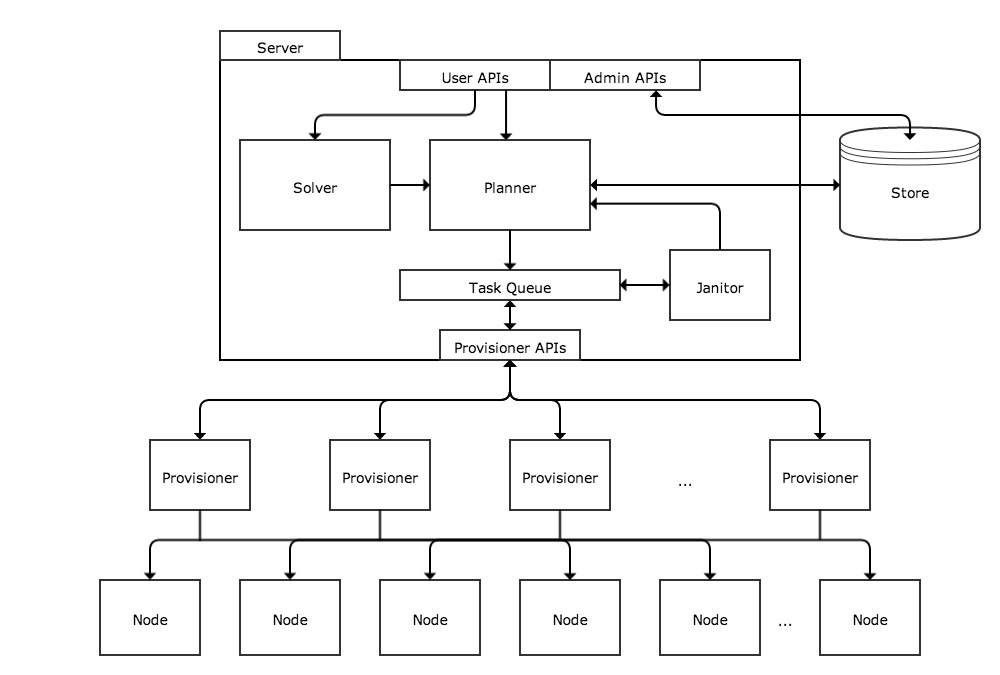
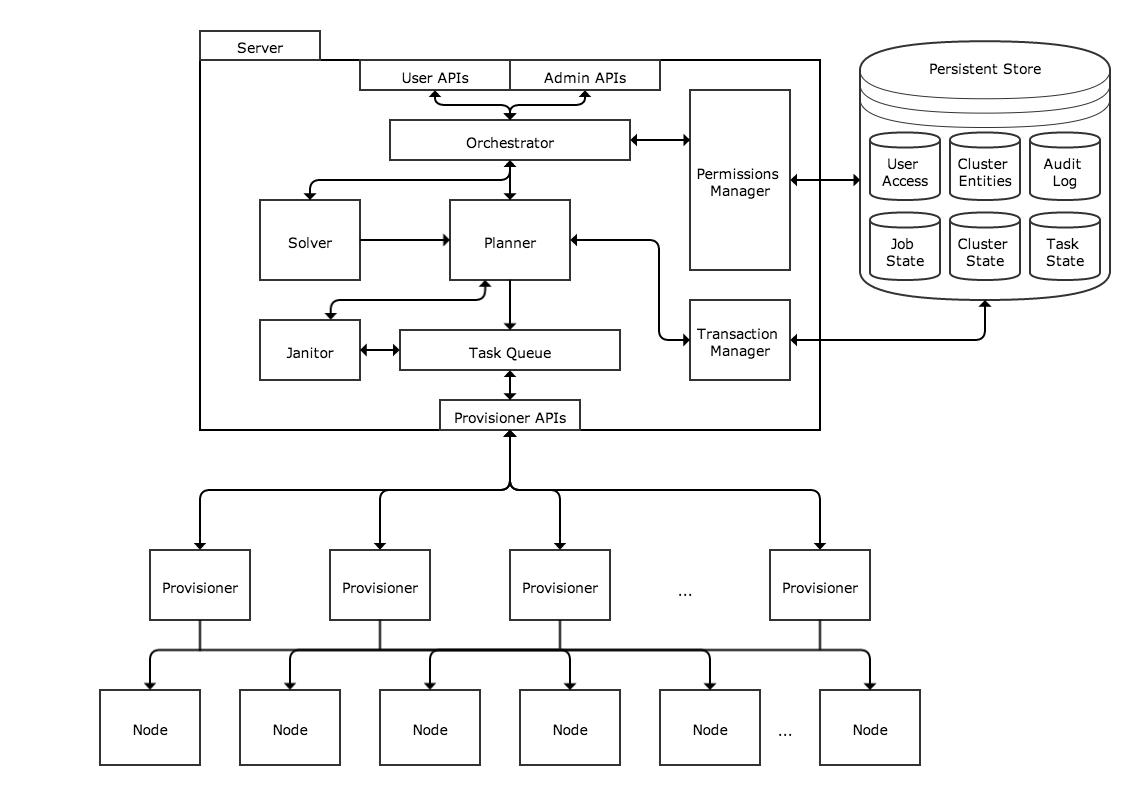
adding more details to server description, leaving room for future enhancements.

diff --git a/docs/loom-tech-docs/source/server/index.rst b/docs/loom-tech-docs/source/server/index.rst
@@ -125,6 +125,33 @@ make a template completely rigid, where every service, hardware, image, and conf
 An administrator can also make a flexible template that allows end users to specify properties they are interested in, such as which 
 services should be placed on the cluster and what hardware and image to use.   
 
+Permissions Manager
+===================
+The Permissions Manager is in charge of deciding which users have permission to perform which action on which entity. An 
+entity here is any of the previously mentioned admin defined entities, as well as actual cluster instances. The Permissions
+Manager has a pluggable interface for integration with existing user management systems such as LDAP. From existing systems,
+it can get a list of users as well as the groups the users belong to. For each user and entity pair, the Permissions Manager
+determines what actions the user can perform on the entity. Some examples of actions are reading, writing, executing, and
+granting. Read permission means the user is able to read the entity. Write permission means the user is able to change
+the entity. Execute permission applies to certain types of entities. For example, execute permission on a cluster template
+means the user is able to create a cluster with the template. Grant permission means the user is able to grant other users
+permission to perform certain actions on the entity. Actions are not limited to those listed above and can include many more.
+The actual implementation that takes a user and entity as input and outputs the permissible actions is left as a pluggable
+interface so different Loom setups can have different policies. By default, Loom supports a super admin that has all 
+permissions on all entities. The super admin is able to create admins that have permission to write admin entities and 
+perform cluster operations, as well as grant permissions to other users in their group. 
+
+However, the default permissions policy is not the only possible policy. For example, it is possible to create a policy where
+the superadmin only has permission to create regular admins and grant them permission, but no permission to write any 
+admin entities or perform any cluster operation. This may be desired if the role of the super admin is simply to delegate
+responsibility to admins for each user group. Another policy may limit all admin permissions to be just that of writing
+admin entities, but leave cluster operations completely for users. Admins therefore would not be able to read cluster 
+information or perform cluster operations. A setup like this may be desired if privacy is important, and each user needs
+to make sure only they are able to access their cluster and the data on their cluster. The type of permissions policy 
+implemented by the Permissions Manager should not be limited to the scope mentioned in the previous examples. What is 
+important is that the Permissions Manager is able to determine what a user is able to do with or to any given entity, and 
+with or to other permissions regarding other users.
+
 Solver
 ======
 Users can make requests to perform different cluster management operations, such as creating, deleting, shrinking, expanding, configuring,
@@ -284,4 +311,48 @@ or success after some configurable timeout, the Planner will assume a failure an
 There is a Janitor that runs in the background to perform the timeout.
 Once all tasks in a stage are complete, the Planner places all tasks in the next stage onto the queue. 
 
+Transaction Manager
+^^^^^^^^^^^^^^^^^^^
+Cluster operations in Loom are failably transactional, meaning Loom will try to ensure that either the entire operation
+completes successfully or it does not complete, at all.
+What this means is that there must be a way to roll back changes if an operation is unsuccessful. This is 
+accomplished by the Planner working in conjunction with a Transaction Manager. The Transaction Manager is responsible for
+maintaining and managing cluster state. It stores a snapshot of the cluster after each successful cluster operation. The 
+snapshot contains every detail about a cluster. It contains the full cluster layout, every single configuration setting,
+hostnames, ip addresses, ssh keys, every little detail. In this way, Loom is able to rollback to any previous cluster state
+in case of an operation failure. Rolling back to a previous state is a functional rollback where the cluster layout is 
+exactly the same, but where some node information may change, depending on the operation. For example, when shrinking
+a cluster from 10 nodes to 5, it is possible 4 nodes are deleted but some issue happens on the fifth node and the operation
+must be rolled back. In that case the Transaction Manager is able to tell the Planner that it needs to recreate 4 nodes with
+what hardware and which image and with which services on each node and which configuration settings. But it cannot guarantee 
+that the same ip addresses are used and the same hostnames are used. So funtionally the cluster is the same and the layout
+is the same, but some details may change. After a rollback, the state is saved again as a separate entry to preserve the 
+full cluster history. 
 
+A cluster operation can fail if a given task is retried past the max retries configured for Loom. If this happens, the 
+Planner will notify the Transaction Manager that the cluster operation has failed, and the Transaction Manager will send
+the full state of the cluster prior to the start of the transaction. The Planner is then able to create another task plan
+to rollback the state of the cluster. It does this by creating a new DAG based on the current failed DAG. It starts in the
+current failed stage, and for each successfully completed task, it creates corresponding rollback tasks. It then works 
+backwards in the original DAG, adding rollback tasks for each successfully completed task. For example, for a configure 
+service A task on node X, the rollback task would be a configure service A task on node X, but with the previous 
+configuration settings as given by the Transaction Manager. Similarly, for a install service B task on node Y, the rollback
+task would be to remove service B on node Y. As another example, a create node Z task has a rollback task of delete node Z.
+The Planner is thus able to work backwards to create a rollback task plan from the original failed plan. Before actually 
+starting the rollback, the Transaction Manager stores a snapshot of the cluster for historical purposes. The planner then 
+proceeds to coordinate the rollback tasks as before, by dividing the DAG into stages and placing the tasks onto the queue
+for consumption by provisioners. If the rollback task plan also fails, the Transaction Manager stores a snapshot of the
+state of the cluster at that moment, and marks the cluster for examination by an administrator. Cluster operations can
+be tried again in the future once the errors have been investigated. This is what is meant by failably transactional. A
+rollback can fail in which case the transaction has failed.
+
+
+
+Audit Log
+^^^^^^^^^
+It is important that Loom provides an audit log so that every single operation is logged. Each step of the way, the Planner
+will write to the log. It writes to the log when a task is placed onto the queue for consumption by a provisioner, again when
+the task is taken from the queue, and once more when a provisioner comes back with the task status. Retries are logged in the
+same way as separate tasks so a full and complete history is kept. The planner also works with the Transaction Manager to 
+ensure that each task is tied to the correct cluster transaction so that audits can be performed for periods of time or by
+cluster action.

diff --git a/docs/loom-tech-docs/source/overview/index.rst b/docs/loom-tech-docs/source/overview/index.rst
@@ -11,7 +11,7 @@ Architecture
 
 Overview
 ========
-Before moving on, it is necessary to define some terminology that will be used throughout the remainder of the document. 
+Before moving on, it is necessary to define some terminology that will be used throughout the remainder of this document. 
 
 A node is a machine, real or virtual, that consists of a service or collection of services running on hardware, where
 a service is some piece of software.  
@@ -21,17 +21,21 @@ with one another to provide some functionality that each individual node is unab
 is a collection of nodes that work together to provide a distributed file system like Hadoop HDFS.  
 
 A cluster management operation is an action that is performed on a cluster, affecting some or all of the nodes in the cluster.
-Some examples are creating, deleting, shrinking, expanding, upgrading, rollback, configuring, starting, and stopping a cluster. 
-Cluster level operations typically involve many node level tasks. For example, configuring a cluster usually requires configuring 
-services on each node in the cluster, and may also involve stop and starting those services in a particular order.
+Some examples are creating, deleting, shrinking, expanding, upgrading, rollback, configuring, starting, and stopping a cluster or 
+its services. Cluster level operations typically involve many node level tasks. For example, configuring a cluster usually requires 
+configuring services on each node in the cluster, and may also involve stopping and starting those services in a particular order.
+Cluster management operations usually must obey some constraints as well. For example, when expanding a cluster, we usually do not
+want to make any changes to existing nodes, and usually want the new nodes to mirror the types of nodes already existing in the cluster.
 
 A task is an action that is performed on a node.  Some examples are creation and deletion of the node, and the installation,
 initialization, configuration, start, stop, or removal of a service on the node.  
 
 Loom is a system that allows users to manage clusters as single entities; users no longer have to know about nodes. 
 Loom consists of two major pieces: the server and the provisioners.  The server is responsible for determining what needs to be 
-done for different cluster management operations.  It breaks down cluster level operations into node level tasks, coordinating 
-which tasks should be performed at what time.  It also stores the state of all provisioned clusters as well as a history of all
+done for different cluster management operations. It first takes the cluster management operation and cluster, solving the problem
+of performing the operation while obeying all constraints that apply to the cluster. The result is that cluster level operations 
+are broken down into node level tasks that are coordinated and performed in a way that all constraints are satisfied. 
+It also stores the state of all provisioned clusters as well as a history of all
 operations performed.  The server does not perform any of the tasks, but places tasks onto a queue for the provisioners to 
 execute.  Provisioners are responsible for actually executing the tasks on the desired node, reporting back to the server 
 success or failure of its given task.  An architectural overview is shown in the figure below. 
@@ -47,20 +51,26 @@ Server
 ======
 The Loom server performs several separate, but related roles.  The first role is to interact with administrators to define providers,
 hardware, images, services, and templates that can be used for cluster management purposes. These definitions are persistently 
-stored, as illustrated in the figure by the Admin APIs box and Store. The second role is to create plans to perform cluster management
-operations. Users make cluster management operation requests through the User APIs, which are then sent to the Solver and Planner to 
-transform the cluster level operation into a plan of node level tasks.
+stored, as illustrated in the figure by the Admin APIs box and Store. There is also a permissions manager that hooks into existing user
+management systems like LDAP. The permissions manager ensures that users can only perform actions they are authorized to perform. For example,
+an admin from group A can only read and write entities belonging to group A and not entities belonging to group B.
+The second role of the server is to create plans to perform cluster management operations. In short, the role is to transform cluster 
+level operations into a plan of node level tasks, all of which can be wrapped in a transaction. 
+Users make cluster management operation requests through the User APIs, which are then sent to an orchestrator that determines which
+operations require constraints to be solved, and thus sent to the Solver, and which operations can be directly sent to the Planner.
+The transaction manager ensures that operations are atomic, performing rollbacks if needed. It also records all actions performed for auditing purposes.
 The final role is to interact with provisioners to coordinate the execution of those node level tasks.  In the figure, this role 
 is performed through the Provisioner APIs box, Task Queue, and Janitor. 
 
 Provisioner
 ===========
-Provisioners are responsible for taking tasks from the server, executing the task, and reporting back to the server whether or not the 
-task was successfully performed. Provisioners perform tasks by using the provider or automator plugin specified in the task.  Provider plugins
+Provisioners are lightweight and stateless, responsible for taking node level tasks from the server, executing the task,
+and reporting back to the server whether or not the task was successfully performed. Provisioners perform tasks by using the correct 
+provider or automator plugin, depending on the task.  Provider plugins
 are used to allocate, delete, and manage machines using different infrastructure providers such as OpenStack, Rackspace, Amazon Web Services, 
 Google App Engine, and Joyent. Automator plugins are responsible for implementing the various services defined on a cluster.  For example, a 
 Chef automator plugin could be used to invoke Chef recipes that install, configure, initialize, start or stop your application.  Various plugins may be 
 implemented to support desired technologies, such as a Puppet plugin, or even shell commands.  
 Provisioners are not directly installed on the target host, but rather use SSHD to interact with the remote host, making Loom's architecture 
 simple and secure. Since multiple provisioners can work concurrently, this layer of provisioners support execution of thousands of concurrent
-tasks.
+tasks. Provisioners can also be managed by the Server to automatically scale according to workload.

diff --git a/docs/loom-tech-docs/source/prior-art/index.rst b/docs/loom-tech-docs/source/prior-art/index.rst
@@ -8,18 +8,20 @@ Prior Art
 =========
 Other cluster management systems exist.  For example, 
 Amazon EMR provides a subset of Hadoop services (such as Hive, Pig, HBase, and MapReduce) and manages jobs and workflows on top
-of those services. Loom, on the other hand, is a software agnostic, generic system for creating clusters of any layout and of 
-any type. Being software agnostic and a provisioning tool, Loom has no direct support for managing jobs on clusters, as its focus 
+of those services. Loom, on the other hand, is a software agnostic, generic system for managing clusters of any layout and of 
+any type. As a software agnostic system, Loom has no direct support for managing jobs on clusters, as its focus 
 is on cluster creation and management, not jobs and workflow management.
 
 The Apache Ambari project is aimed at making Hadoop management simpler 
 by developing software for provisioning, managing, and monitoring Apache Hadoop clusters. Ambari aims to provide an easy-to-use Hadoop 
 management web UI backed by its RESTful APIs. Ambari, however, does not support actually creating machines.  A list of machines must
 be given to it. It is also directly tied to managing Hadoop clusters, whereas Loom is software agnostic and can be used to manage
-any type of cluster. 
+any type of cluster, not just Hadoop. 
 
 The Savanna project aims to provide users with simple means to provision a Hadoop 
 cluster at OpenStack by specifying several parameters like Hadoop version, cluster topology, nodes hardware details, and others.
 Again, Savanna is focused on managing Hadoop clusters, whereas Loom is software agnostic and can be used to manage any type of cluster.
 Savanna has a concept of a template, but requires node groups to be explicitly defined for placing service on each node group.
-Loom offers built-in logic for solving the service placement problem through the layout Solver and Planner.
+There is no dynamic layout solver that takes the template and translates it into a placement of services on different nodes in the cluster.
+Rather, the user must explicitly define which services should be placed on which type of node. Loom offers built-in logic for solving 
+the service placement problem through the layout Solver and Planner. This capability differentiates Loom from any other current system.
